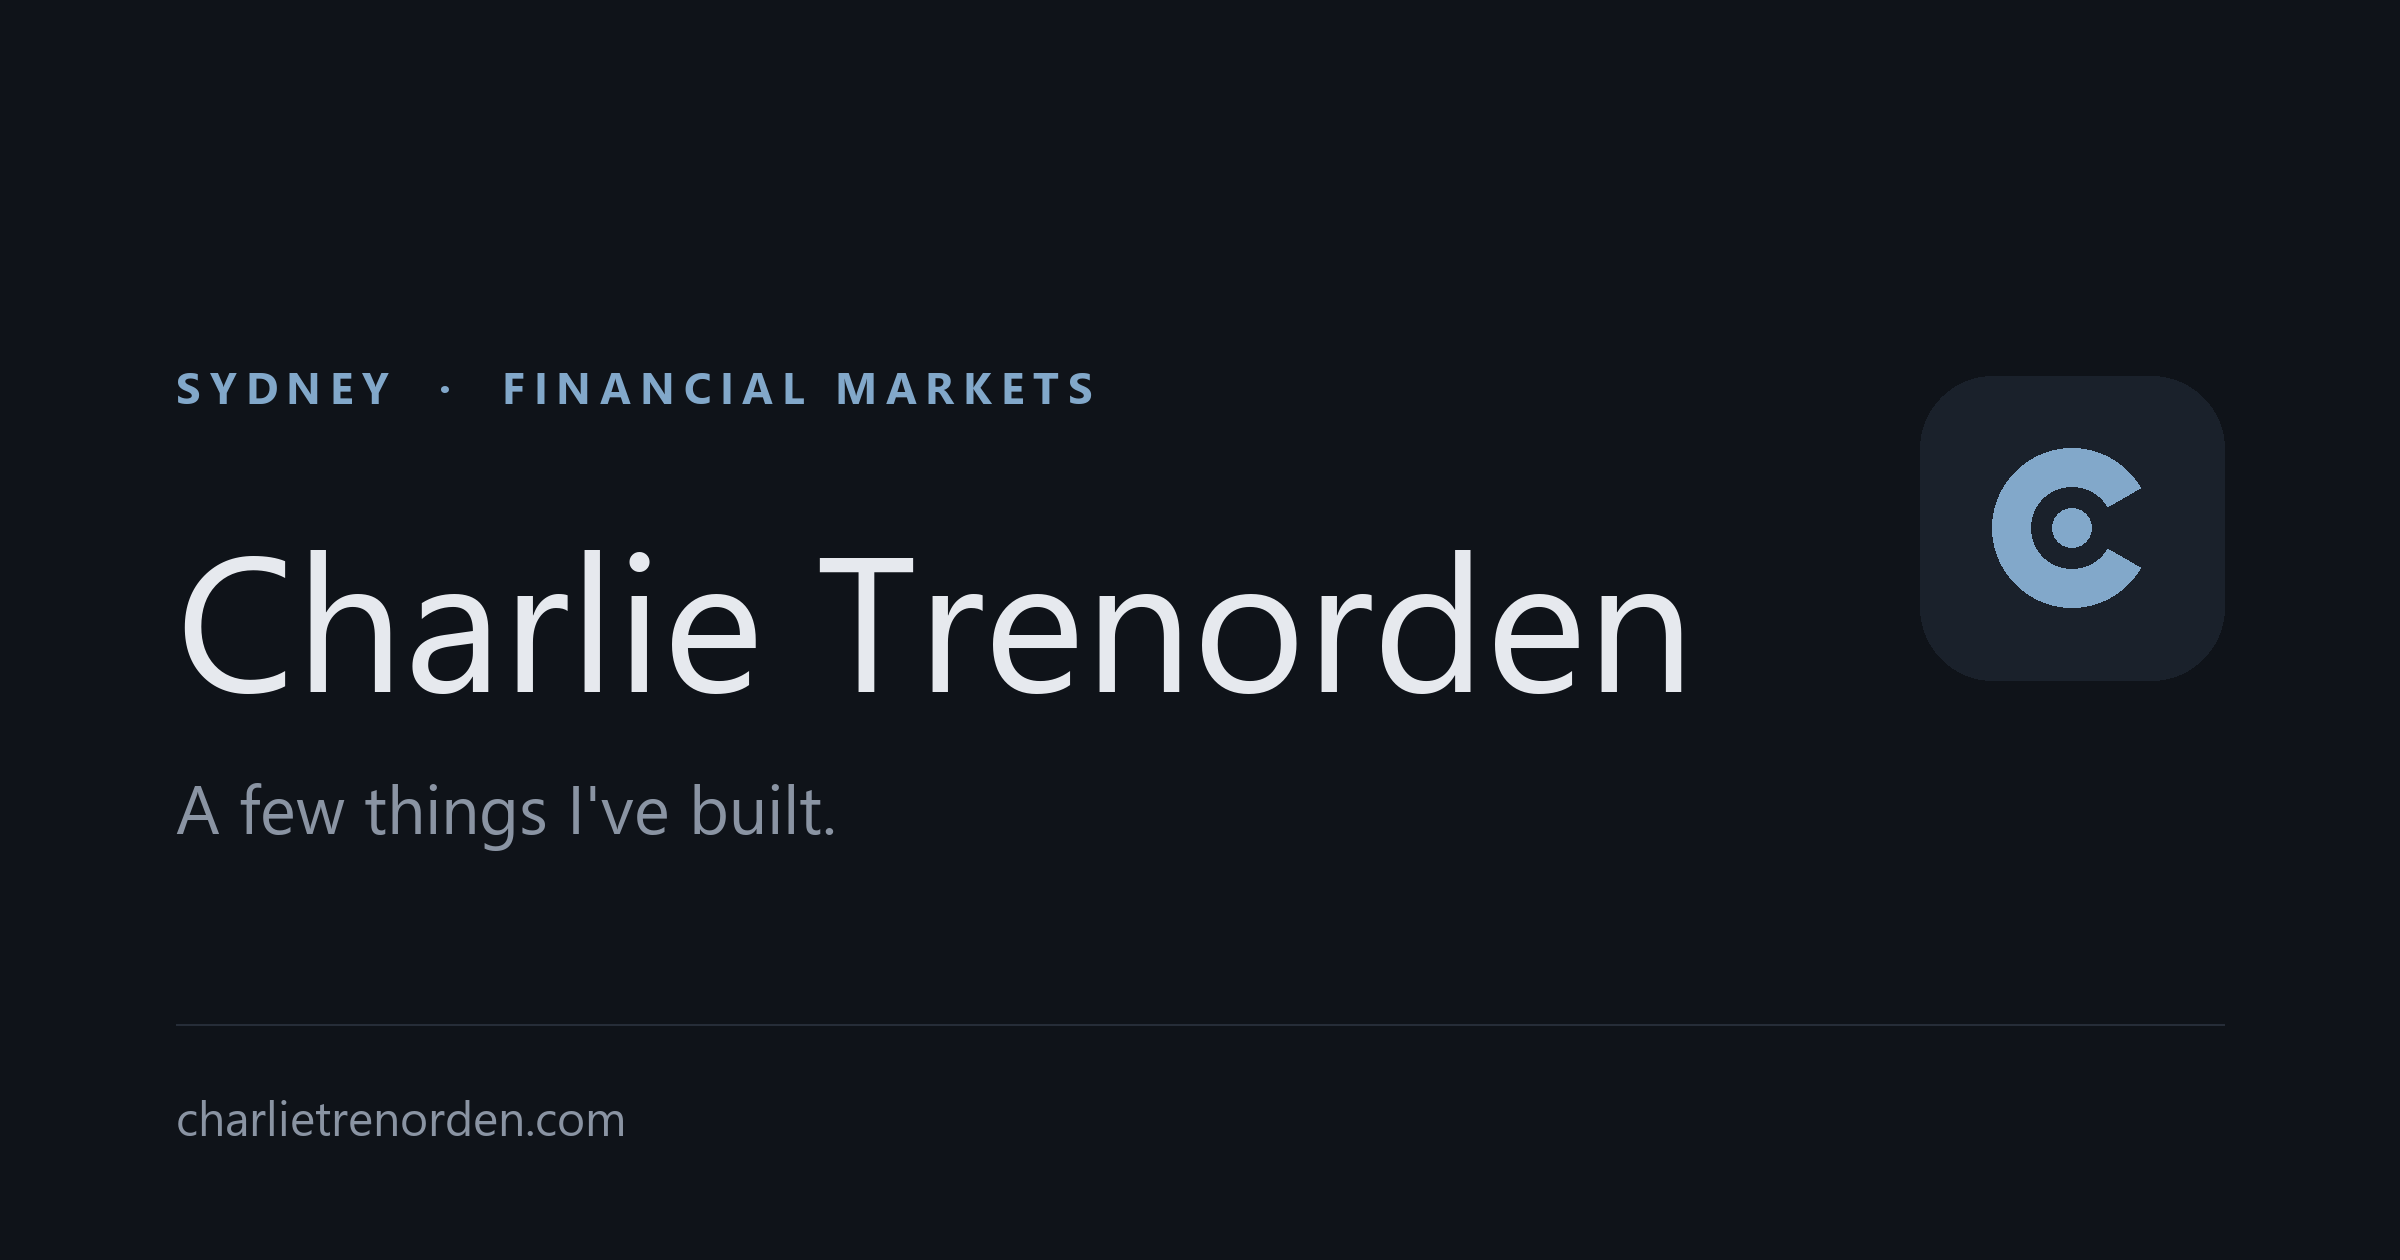
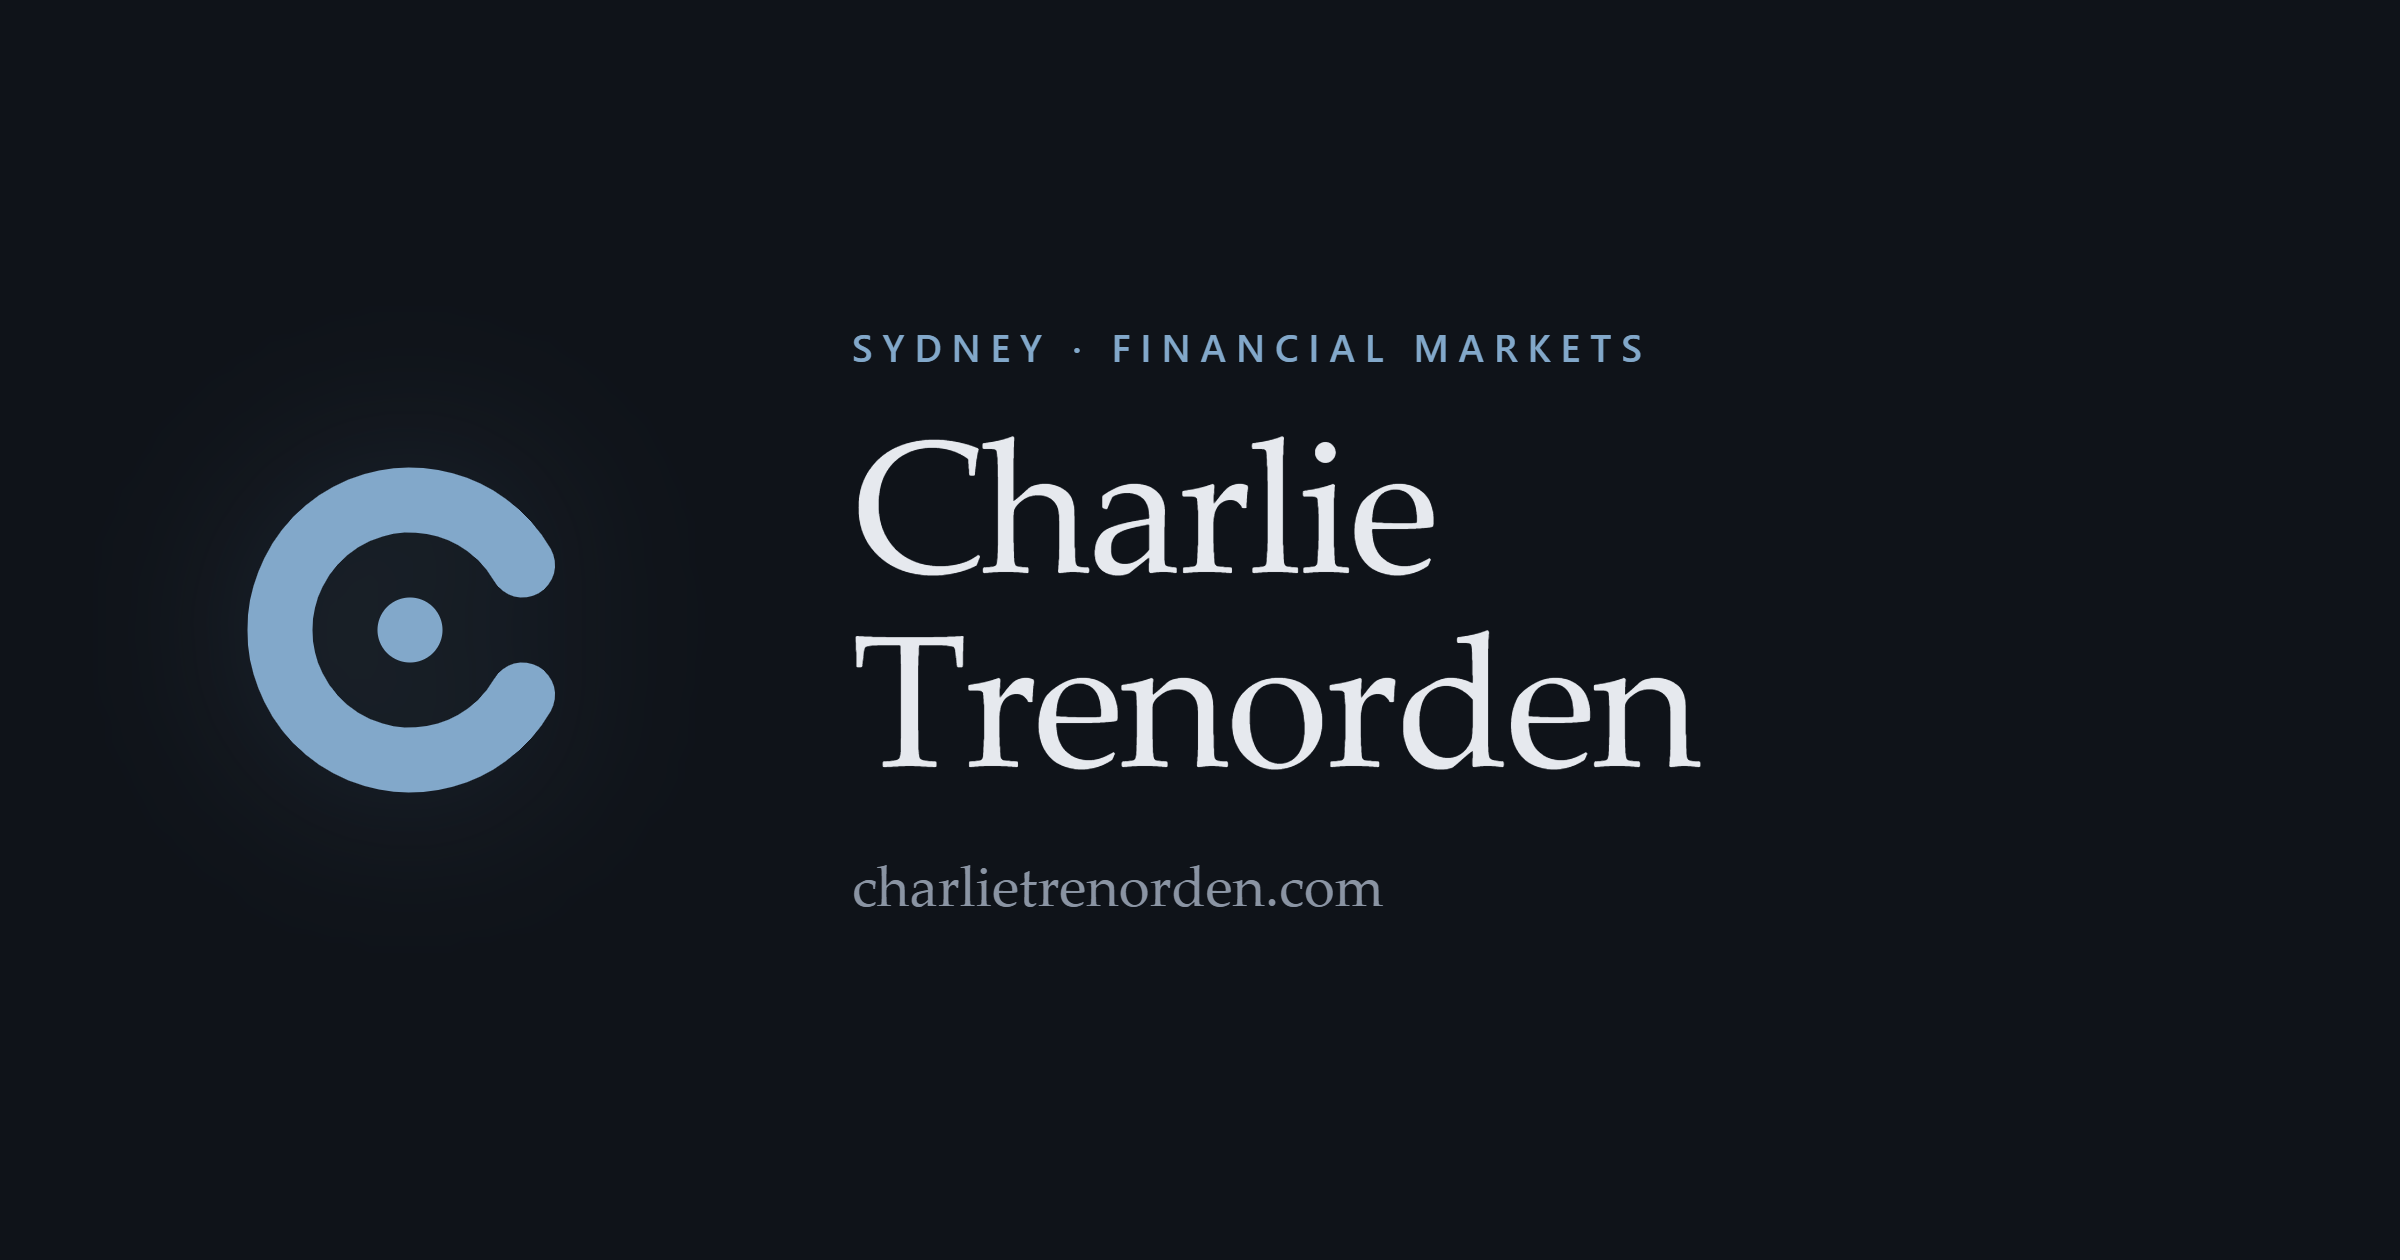
OG card: switch to the mark-led design
Same filename and same 2400x1260, so the existing og:image / width /
height meta tags stay valid. Source HTML kept alongside it as
assets/og-card-source.html so it can be re-rendered.

diff --git a/assets/og-card-source.html b/assets/og-card-source.html
@@ -1,0 +1,20 @@
+<!DOCTYPE html><html><head><meta charset="utf-8"><style>
+  *,*::before,*::after{box-sizing:border-box}
+  html,body{margin:0;padding:0}
+  body{width:2400px;height:1260px;overflow:hidden;background:#0f1319;color:#e6e9ee;
+       font:400 18px/1.6 "Iowan Old Style","Palatino Linotype",Palatino,Georgia,serif;
+       -webkit-font-smoothing:antialiased}
+  .card{width:1200px;height:630px;transform:scale(2);transform-origin:top left;padding:72px 80px;display:flex;flex-direction:column;
+        justify-content:space-between;position:relative}
+  .eyebrow{font:600 17px/1 ui-sans-serif,system-ui,sans-serif;letter-spacing:.26em;
+           text-transform:uppercase;color:#82a8ca;margin:0}
+  .name{font-weight:400;letter-spacing:-.02em;margin:0}
+  .domain{font:500 22px/1 ui-sans-serif,system-ui,sans-serif;color:#8a94a3;margin:0}
+  .rule{height:1px;background:#262d38;border:0;margin:0}
+  .mark{flex:none}
+  .card{flex-direction:row;align-items:center;justify-content:flex-start;gap:96px}.name{font-size:94px;line-height:1.03}.lede{font-size:28px;color:#8a94a3;margin:24px 0 0}.eyebrow{font-size:19px}.mark{filter:drop-shadow(0 0 40px rgba(130,168,202,.18))}
+</style></head><body><div class="card"><svg class='mark' width='250' height='250' viewBox='0 0 100 100'><path d='M72.5 37 A26 26 0 1 0 72.5 63' fill='none' stroke='#82a8ca' stroke-width='13' stroke-linecap='round'/><circle cx='50' cy='50' r='6.5' fill='#82a8ca'/></svg>
+  <div><p class="eyebrow" style="margin-bottom:20px">Sydney &middot; Financial markets</p>
+    <h1 class="name">Charlie<br>Trenorden</h1>
+    <p class="lede">charlietrenorden.com</p></div>
+</div></body></html>
